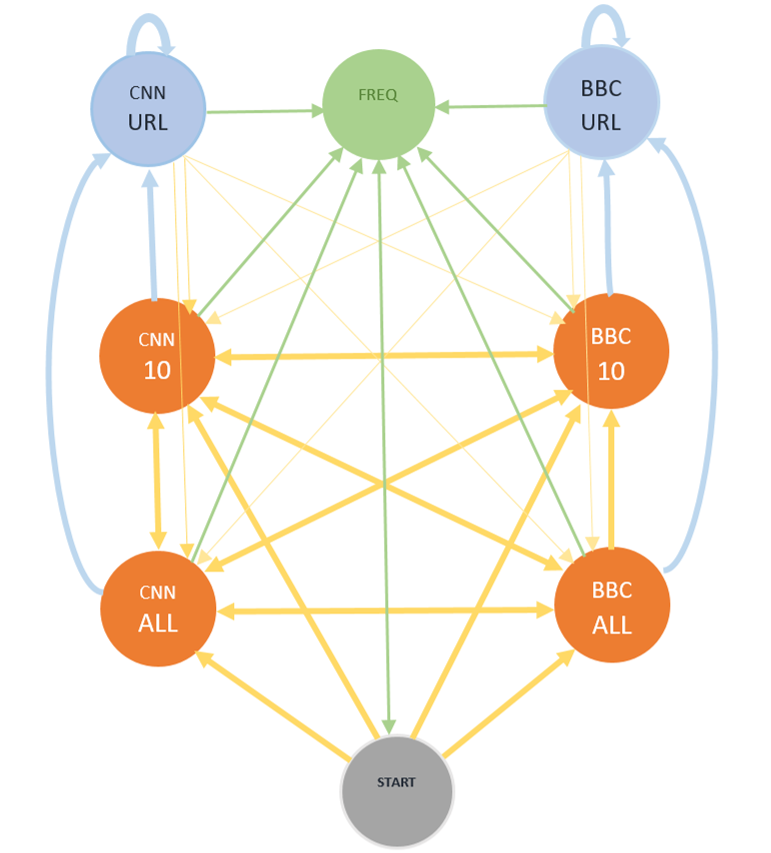
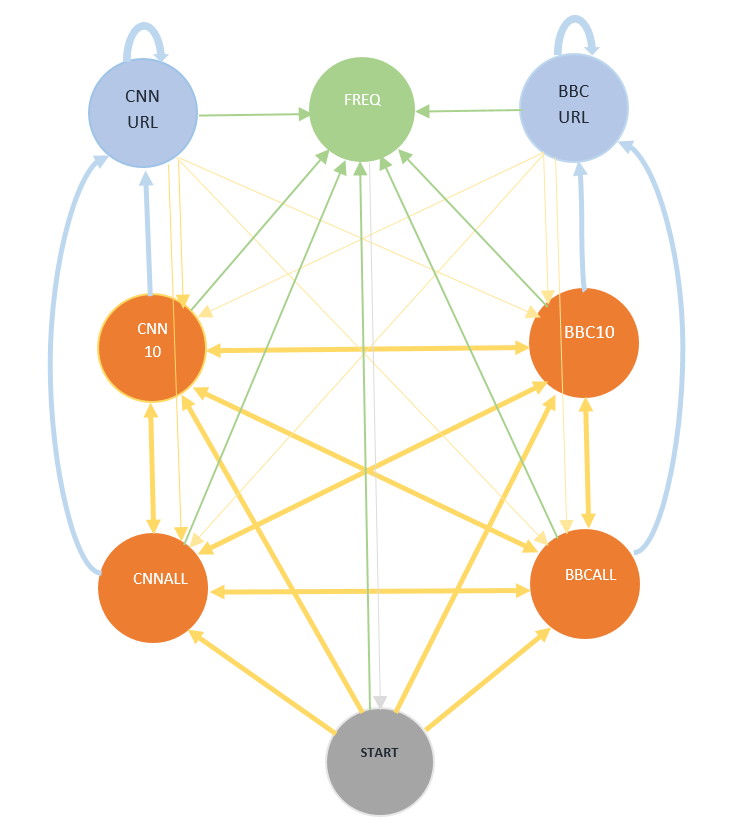
correct the figure in README.md

diff --git a/README.md b/README.md
@@ -22,7 +22,9 @@ python app.py
 ## Finite State Machine
 ![fsm](./img/show-fsm.png)
 
-![fsm](./img/show-fsm-2.png)
+![fsm-2](./img/show-fsm-2.png)
+
+p.s. Actually, there are two states called "BBCURL_TRIV" and "CNNURL_TRIV" because of the problem of creating self transitions ("BBCURL" and "CNNURL" in this program), but I ignore them in the second figure above.
 
 ## Usage
 The initial state is set to `START`.
@@ -35,4 +37,4 @@ So do inputting "BBC" and "BBC10". (source: http://www.bbc.com/news)
 
 Then the user can get a news URL by inputting the index of a news title.
 
-Input "Freq" : the bot replys the top 10 frenquent words in the CNN titles, BBC titles, overall, respectly.
+Input "Freq" : the bot replys the top 10 frenquent words in the CNN titles, BBC titles and overall titles, respectly.
